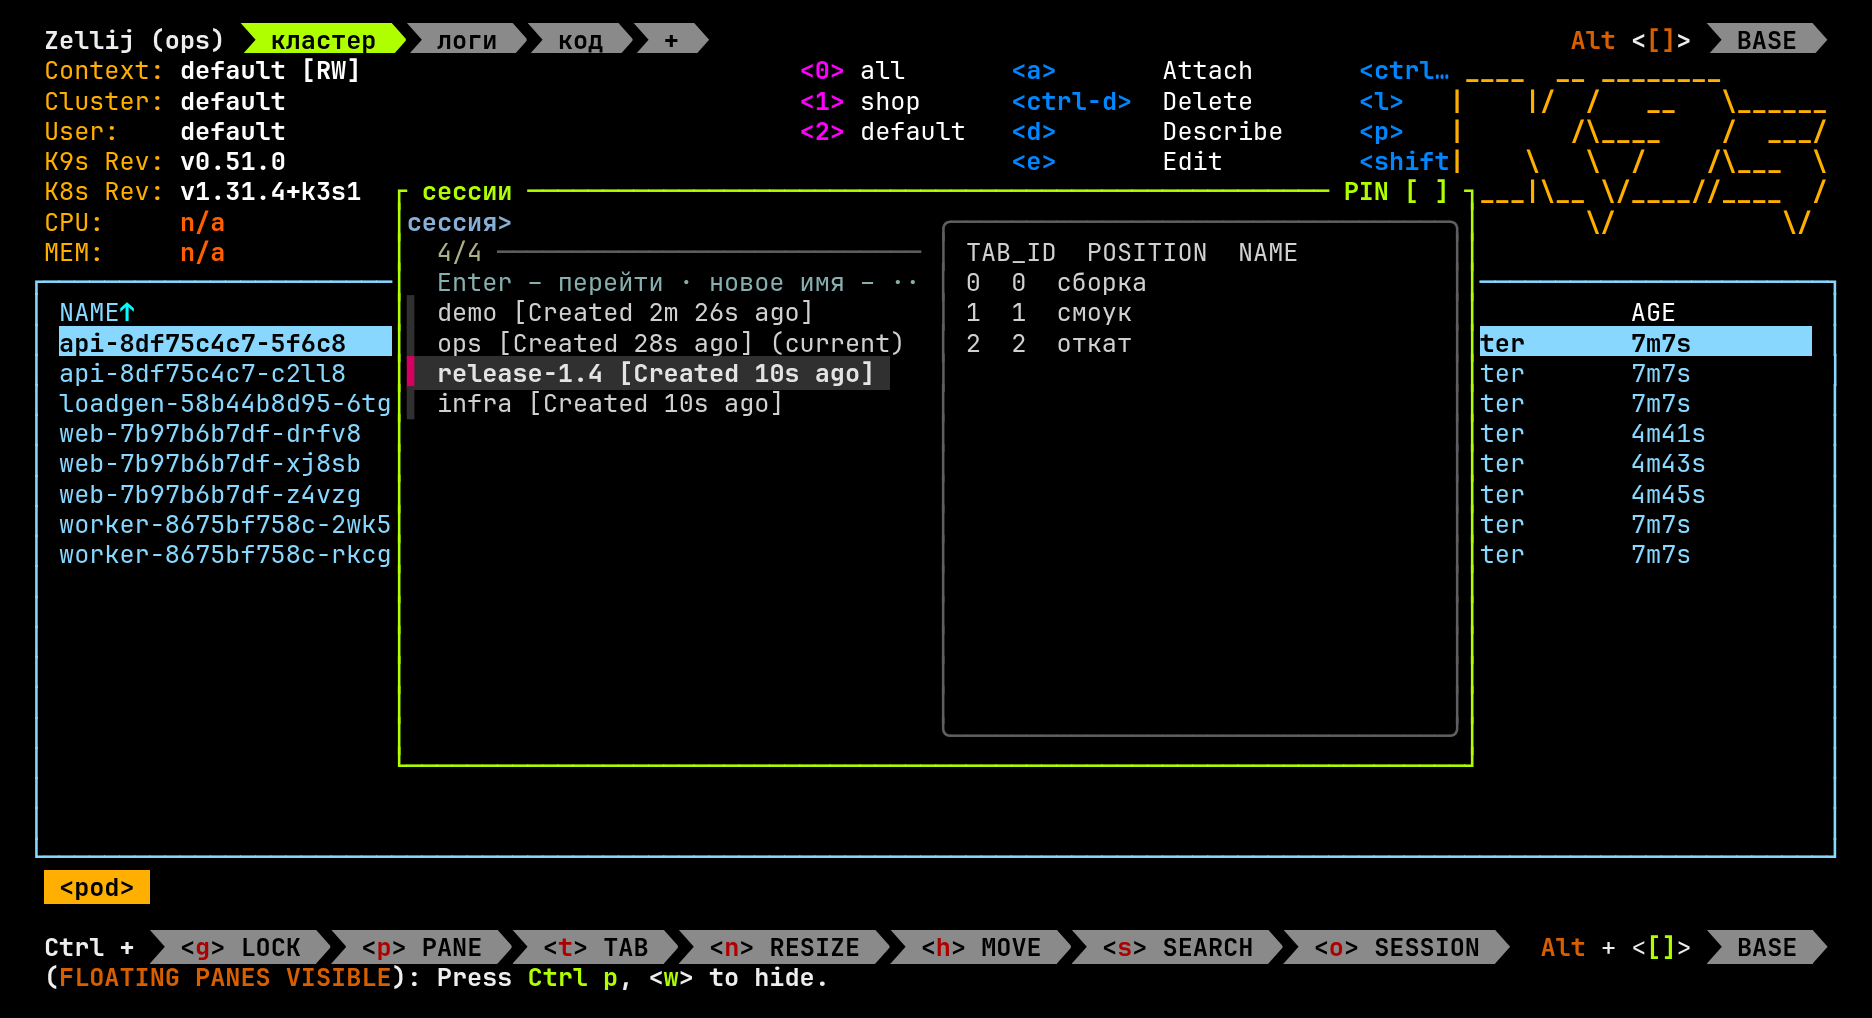
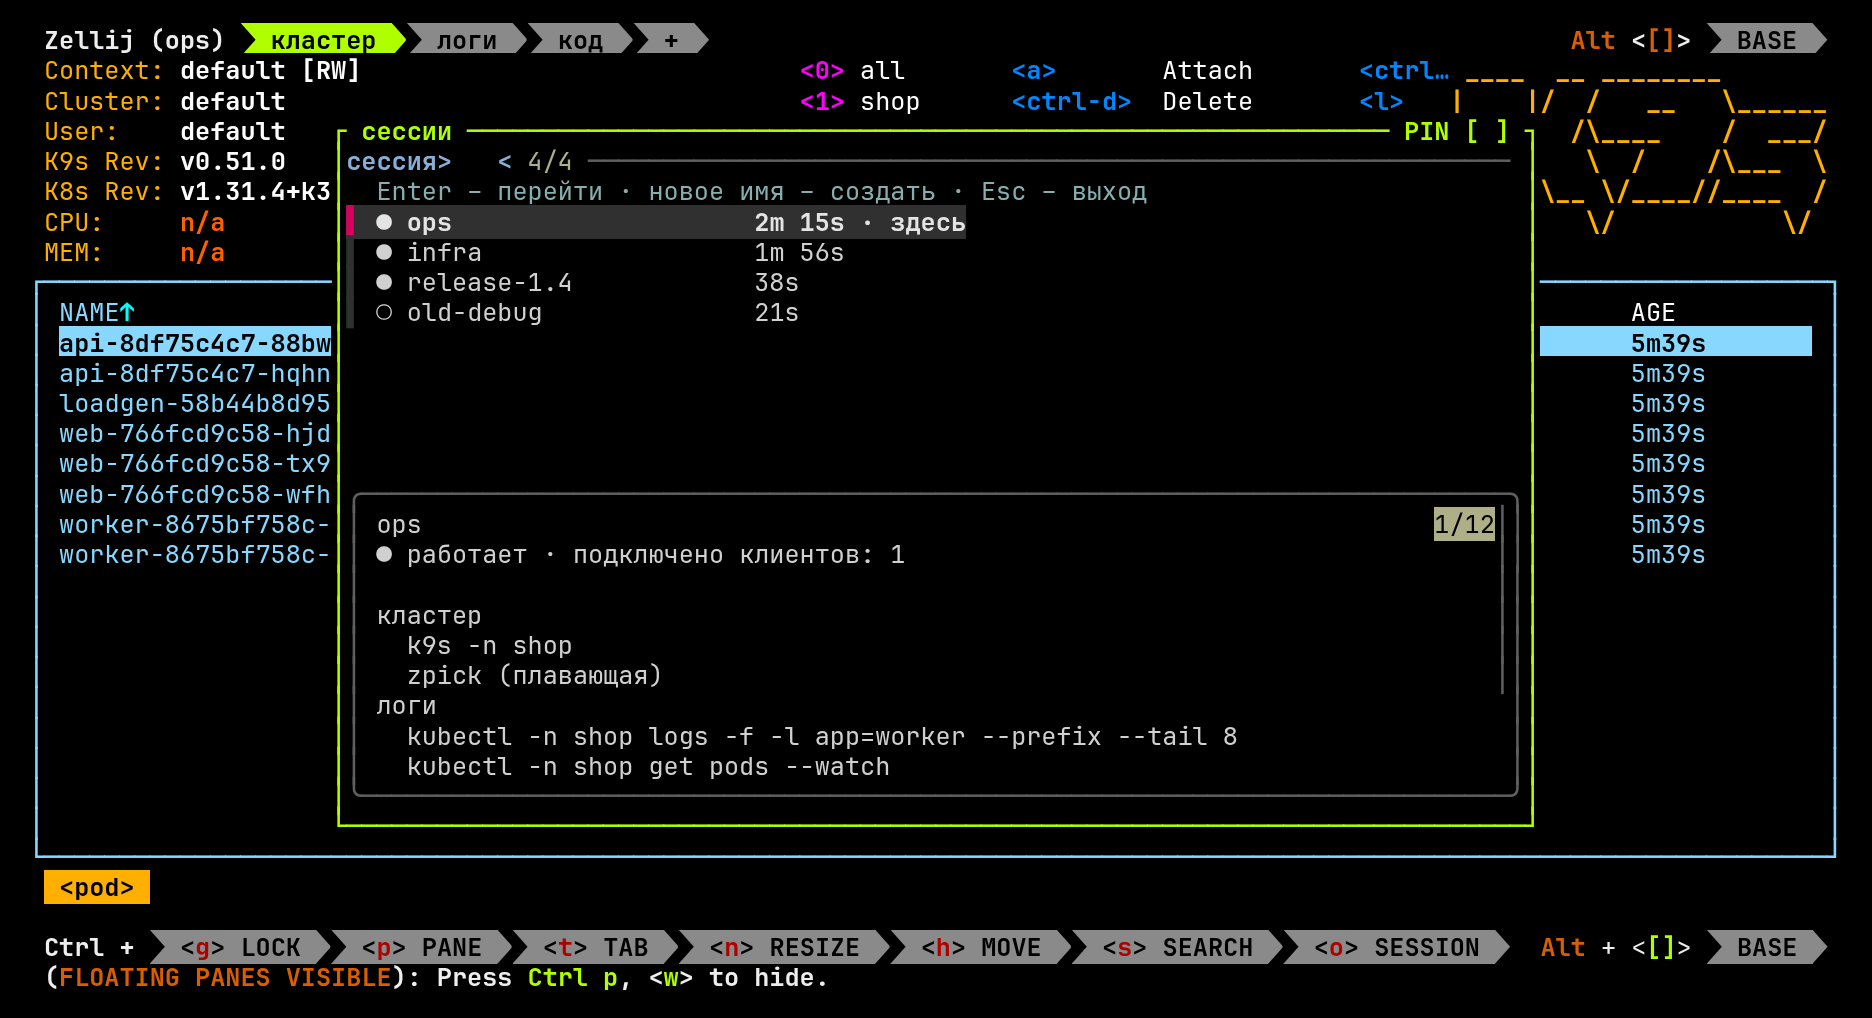
post: zellij – спокойное меню с карточкой сессии, квадраты вместо стрелок, без обещания статьи про RAG

diff --git a/content/posts/zellij-step-by-step.md b/content/posts/zellij-step-by-step.md
@@ -73,6 +73,8 @@ zellij
 
 При каждом старте сессии поверх экрана выходит окно About Zellij с подсказкой дня. Esc его закрывает, `Ctrl+c` отключает подсказки при старте. Закрыть его стоит сразу: пока оно на экране, у вкладки включён слой плавающих панелей, и `Alt+n` откроет новую панель плавающей поверх экрана.
 
+Если в строке вкладок и строке статуса вместо стрелок квадраты, в шрифте терминала нет символа U+E0B0 из набора Powerline. Поставьте шрифт из Nerd Fonts или включите в `config.kdl` строку `simplified_ui true`: zellij нарисует те же строки без стрелок (`zellij-utils/assets/config/default.kdl:284`).
+
 Строка статуса внизу показывает режимы и их клавиши, поэтому учить таблицу наизусть не нужно:
 
 | Клавиша | Режим | Для чего |
@@ -390,20 +392,46 @@ fi
 
 ## Шаг 9. Меню сессий на fzf
 
-Когда сессий больше двух, удобно выбирать их из списка с поиском. fzf ставится из пакета (`sudo apt install fzf`, на Ubuntu 22.04 это версия 0.29) или бинарём из релиза на GitHub. Скрипт ниже проверен на 0.29 и 0.74.5.
+Когда сессий больше двух, удобно выбирать их из списка с поиском и сразу видеть, что в каждой открыто. Нужны fzf и jq: `sudo apt install fzf jq` (на Ubuntu 22.04 fzf версии 0.29) или fzf бинарём из релиза на GitHub. Скрипт ниже проверен на fzf 0.29 и 0.74.5.
 
 `~/.local/bin/zpick`:
 
 ```bash
 #!/usr/bin/env bash
-# zpick – меню zellij-сессий на fzf.
+# zpick – меню zellij-сессий на fzf: слева сессии, справа что в них открыто.
 # Enter – перейти, новое имя + Enter – создать, Esc – выход.
 export PATH="$HOME/.local/bin:$PATH"
-out=$(zellij ls -n 2>/dev/null | fzf --print-query --reverse --prompt='сессия> ' \
+
+card() {   # карточка сессии для превью: состояние, вкладки и что в них запущено
+  local s=$1
+  echo "$s"
+  if zellij ls -n 2>/dev/null | grep -E "^$s " | grep -q EXITED; then
+    echo "○ остановлена, Enter воскресит"
+    echo
+    awk -F'"' '/^ *tab name=/ {print $2} / pane command=/ {print "  " $2}' \
+      ~/.cache/zellij/*/session_info/"$s"/session-layout.kdl 2>/dev/null
+  else
+    echo "● работает · подключено клиентов: $(zellij -s "$s" action list-clients 2>/dev/null | tail -n +2 | wc -l)"
+    echo
+    jq -rn --argjson tabs "$(zellij -s "$s" action list-tabs -j 2>/dev/null || echo '[]')" \
+           --argjson panes "$(zellij -s "$s" action list-panes -a -j 2>/dev/null || echo '[]')" '
+      $tabs[] as $t | $t.name,
+      ($panes[] | select(.tab_position == $t.position and (.is_plugin | not))
+                | "  " + (.terminal_command // "шелл") + (if .is_floating then " (плавающая)" else "" end))'
+  fi
+}
+[ "$1" = --card ] && { card "$2"; exit 0; }
+
+list() {   # ● имя  возраст  – из zellij ls
+  zellij ls -n 2>/dev/null | sed -E 's/^([^ ]+) \[Created ([^]]*) ago\](.*)$/\1\t\2\t\3/' |
+    awk -F'\t' '{ printf "%s %-22s %s%s\n", ($3 ~ /EXITED/ ? "○" : "●"), $1, $2, ($3 ~ /current/ ? " · здесь" : "") }'
+}
+
+out=$(list | fzf --print-query --reverse --no-sort --info=inline --prompt='сессия> ' \
         --header='Enter – перейти · новое имя – создать · Esc – выход' \
-        --preview='zellij -s {1} action list-tabs 2>/dev/null || echo "сервер не запущен, Enter воскресит"')
+        --preview="$0 --card {2}" --preview-window='down,50%,wrap')
 [ $? -eq 130 ] && exit 0
-name=$(sed -n 2p <<<"$out" | awk '{print $1}')
+name=$(sed -n 2p <<<"$out" | awk '{print $2}')
 name=${name:-$(sed -n 1p <<<"$out")}
 [ -n "$name" ] || exit 0
 if [ -n "$ZELLIJ" ]; then
@@ -417,7 +445,7 @@ fi
 chmod +x ~/.local/bin/zpick
 ```
 
-Справа в превью – вкладки выбранной сессии. `--print-query` нужен для новых сессий: если набрать имя, которого нет в списке, скрипт получит набранный текст и создаст сессию с этим именем. Внутри zellij переменная `ZELLIJ` задана, и скрипт переключает текущий терминал на другую сессию через `zellij action switch-session`. Той же командой создаётся сессия с новым именем (раскладка у неё стандартная, `work` применяется только при входе из шелла) и воскрешается остановленная.
+В списке у каждой сессии значок: ● – работает, ○ – сервер остановлен. Внизу карточка выбранной сессии: её вкладки и что в каждой запущено. У живой сессии это берётся из `zellij action list-tabs` и `list-panes`, у остановленной – из сохранённой раскладки в `~/.cache/zellij`, так что видно, что поднимется после воскрешения. `--print-query` нужен для новых сессий: если набрать имя, которого нет в списке, скрипт получит набранный текст и создаст сессию с этим именем. Внутри zellij переменная `ZELLIJ` задана, и скрипт переключает текущий терминал на другую сессию через `zellij action switch-session`. Той же командой создаётся сессия с новым именем (раскладка у неё стандартная, `work` применяется только при входе из шелла) и воскрешается остановленная.
 
 Чтобы меню открывалось плавающим окном поверх любой вкладки, в `config.kdl` в блок `shared_except "locked" {` добавляется одна строка:
 
@@ -427,7 +455,7 @@ chmod +x ~/.local/bin/zpick
 
 В пресете Default сочетание `Alt+s` свободно. После переподключения к сессии `Alt+s` открывает окно "сессии" со списком, выбор переключает сессию, окно закрывается само (`close_on_exit`).
 
-![Меню сессий по Alt+s поверх k9s: список сессий и вкладки выбранной](/images/zellij-step-by-step/06-menu.png)
+![Меню сессий по Alt+s поверх k9s: список сессий и карточка выбранной](/images/zellij-step-by-step/06-menu.png)
 
 На главном сервере то же меню (`lc-pick`) работает поверх реестра сессий агентов со всех четырёх серверов. Enter открывает сессию агента во вкладке или переходит в уже открытую. Есть клавиши завершить, скрыть и обновить, в превью – карточка сессии. Реестр – отдельный скрипт под эту задачу, поэтому здесь показан общий вариант над `zellij ls`. Принцип тот же: fzf над списком, `Alt+s` через `Run`, вкладка меню в раскладке.
 
@@ -457,4 +485,4 @@ chmod +x ~/.local/bin/zpick
 | Вкладки | `Ctrl+t`, затем `n`, `r`, `x`, `1…9` |
 | Поиск по выводу | `Ctrl+s` → `s` |
 
-Как к такому терминалу подключены RAG и общая память агентов, будет в отдельной статье.
+RAG и общую память к такому терминалу отдельно подключать не нужно: агенты в панелях zellij работают с ними так же, как в обычном шелле.
